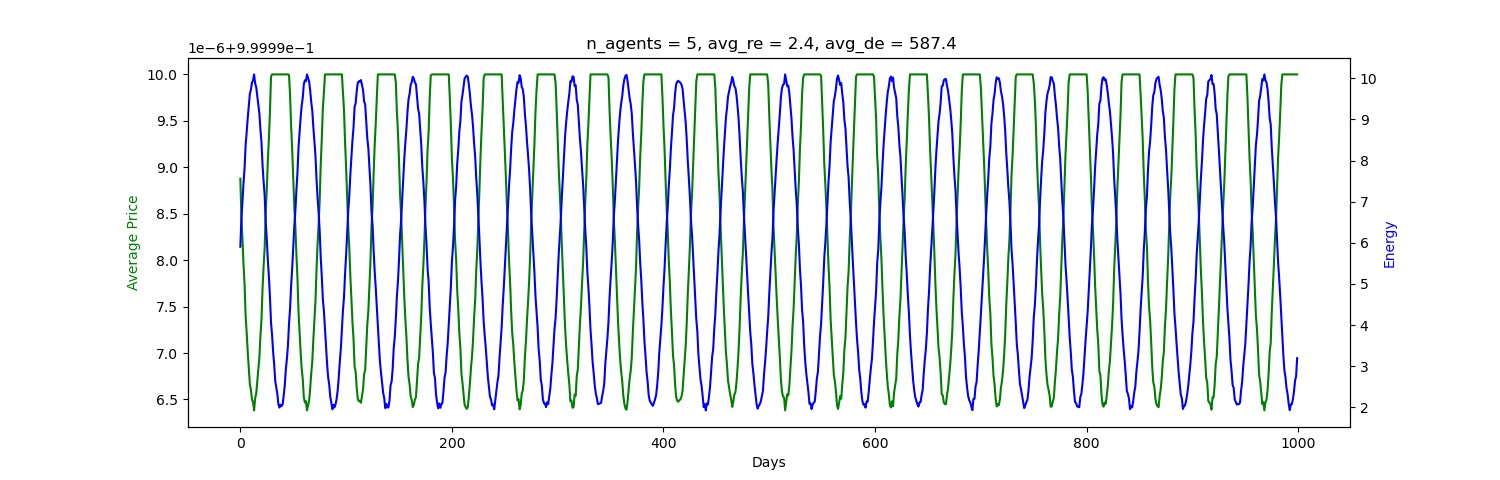
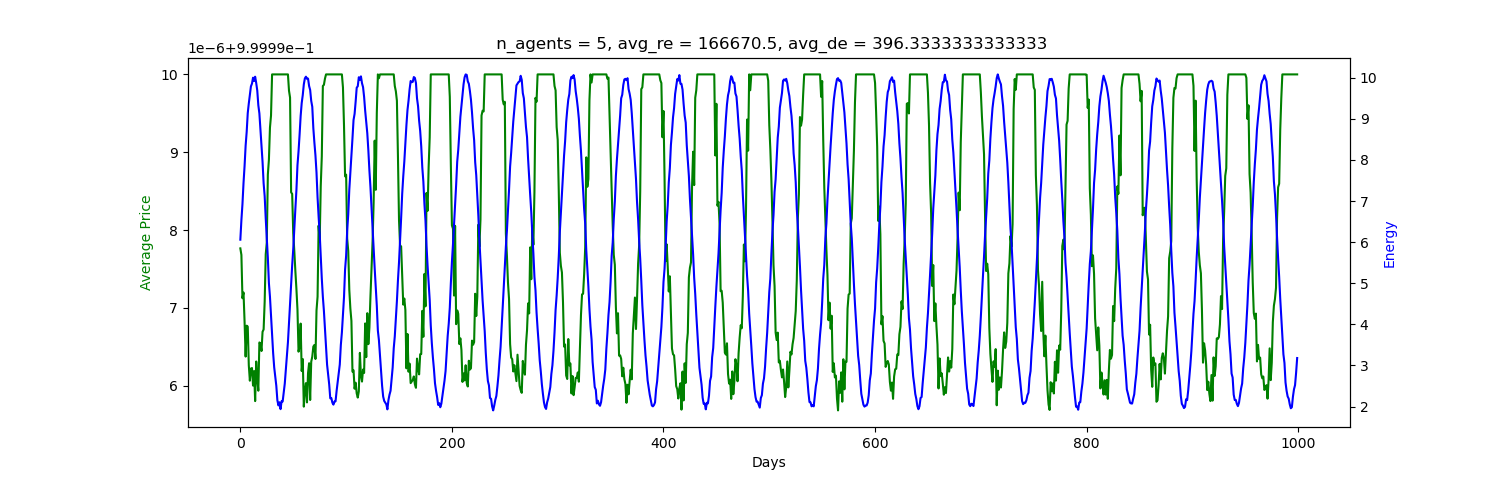
agent improvements and fixes
- add varied energy demand
- improve sell price stuff
- move selling price function to agent
- individualise energy production or not?
- fix multi-buy bug
- fix negative energy bug

diff --git a/src/main.py b/src/main.py
@@ -9,6 +9,8 @@ def daily_energy_level(day):
 
 def main():
     
+    #np.random.seed(0)
+
     agent_list = []
     buy_order_list = []
     sell_order_list = []
@@ -16,19 +18,23 @@ def main():
     n_agents = 5
 
     #add default_order to sell_order_list
-    central_agent = agent(-1, 999999, 0, sell_price=1)
+    central_agent = agent(0, 999999, 0, sell_price=1, sensitivity=0.1)
     central_agent.create_energy(10)
+    agent_list.append(central_agent)
     default_order = central_agent.create_order()
     sell_order_list.append(default_order)
 
     # Create agents
-    for i in range(n_agents):
-        agent_list.append(agent(i, np.random.randint(0, 10), own_demand=np.random.randint(200, 800), sell_price=np.random.uniform(0.8, 1.2)))
+    for i in range(1,n_agents+1):
+        agent_list.append(agent(i, 
+                                np.random.randint(0, 10), 
+                                own_demand_base=np.random.randint(200, 800), 
+                                sell_price=np.random.uniform(0.8, 1.2), 
+                                sensitivity=np.random.uniform(0.1, 0.5)))
 
     avg_price_list = []
     energy_list = []
     funds_list = []
-
 
     verbose = True
 
@@ -42,19 +48,15 @@ def main():
         buy_order_list = []
         sell_order_list = []
 
-        #reset energ levels
-        for i in range(n_agents):
-            agent_list[i].current_energy = 0
-
         energy_today = daily_energy_level(day)
 
         # create energy
-        for i in range(n_agents):
-            agent_list[i].create_energy(energy_today)
+        for curr_agent in agent_list:
+            curr_agent.update(energy_today, avg_price_list[-1] if len(avg_price_list) > 0 else 1)
 
         # create orders
-        for i in range(n_agents):
-            order = agent_list[i].create_order()
+        for curr_agent in agent_list:
+            order = curr_agent.create_order()
             if order is not None:
                 if order.type == 'buy':
                     buy_order_list.append(order)
@@ -152,15 +154,9 @@ def main():
                         sell_order.type = 'done'  
 
         #adjust agent prices
-        # for i in range(n_agents):
-        #     if agent_list[i].current_energy > agent_list[i].own_demand:
-        #         agent_list[i].sell_price -= 0.05
-        #     else:
-        #         agent_list[i].sell_price += 0.05
 
-        #resolve unfullfilled sell orders
         for sell_order in sell_order_list:
-            if sell_order.type != 'done' and sell_order.seller_id != -1:
+            if sell_order.type != 'done' and sell_order.seller_id != 0:
                 if verbose:
                     print('Unfullfilled sell order: ', 'Seller: ', sell_order.seller_id, ' Amount: ', sell_order.amount, ' Price: ', sell_order.price)
                 #sell to central agent
@@ -213,6 +209,7 @@ def main():
 
     ax1.set_xlabel('Days')
     ax1.set_ylabel('Average Price', color='g')
+    #ax1.set_ylim(0, 2)
     ax2.set_ylabel('Energy', color='b')
 
     plt.title(f' n_agents = {n_agents}, avg_re = {np.mean([agent.re_sources for agent in agent_list])}, avg_de = {np.mean([agent.own_demand for agent in agent_list])}')

diff --git a/src/agent.py b/src/agent.py
@@ -2,15 +2,17 @@ from order import order
 import numpy as np
 
 class agent():
-    def __init__(self, id, re_sources, own_demand, sell_price):
+    def __init__(self, id, re_sources, own_demand_base, sell_price, sensitivity):
         self.id = id
         self.re_sources = re_sources
-        self.own_demand = own_demand
+        self.own_demand_base = own_demand_base
+        self.own_demand = own_demand_base
         self.sell_price = sell_price
+        self.sensitivity = sensitivity
         self.funds = 0
         self.current_energy = 0
         
-
+        
     def create_energy(self, daily_energy_level):
         self.current_energy = self.re_sources * daily_energy_level * 10
 
@@ -25,6 +27,17 @@ class agent():
             return order(self.id, tmp_amount, self.sell_price, 'buy')
         
         return None
+    
+    def update(self, daily_energy_level, average_price):
+        self.current_energy = 0
+        self.create_energy(daily_energy_level)
+        self.own_demand = self.own_demand_base + np.random.randint(-50, 50)
+
+        if self.id != 0:
+
+            self.sell_price = self.sensitivity * abs(self.current_energy - self.own_demand) + average_price + np.random.uniform(-0.1, 0.1)
+        
+
 
     def set_own_enery(self, energy):
         self.current_energy = energy
@@ -33,6 +46,8 @@ class agent():
 TODO:
 - implement getters and setters
 - implement house types and incorporate them in energy demand
-- add varied energy demand
-- make update method to perform all updates agent needs (energy level, energy demand, etc.)
+    - set a range of possible base demands per house type
+    - initiate agents based on housetype probabilities and then assign based demand
+- improve sell price stuff
+- determine parameter values (i.e. noise ranges, starting values, etc.)
 '''
